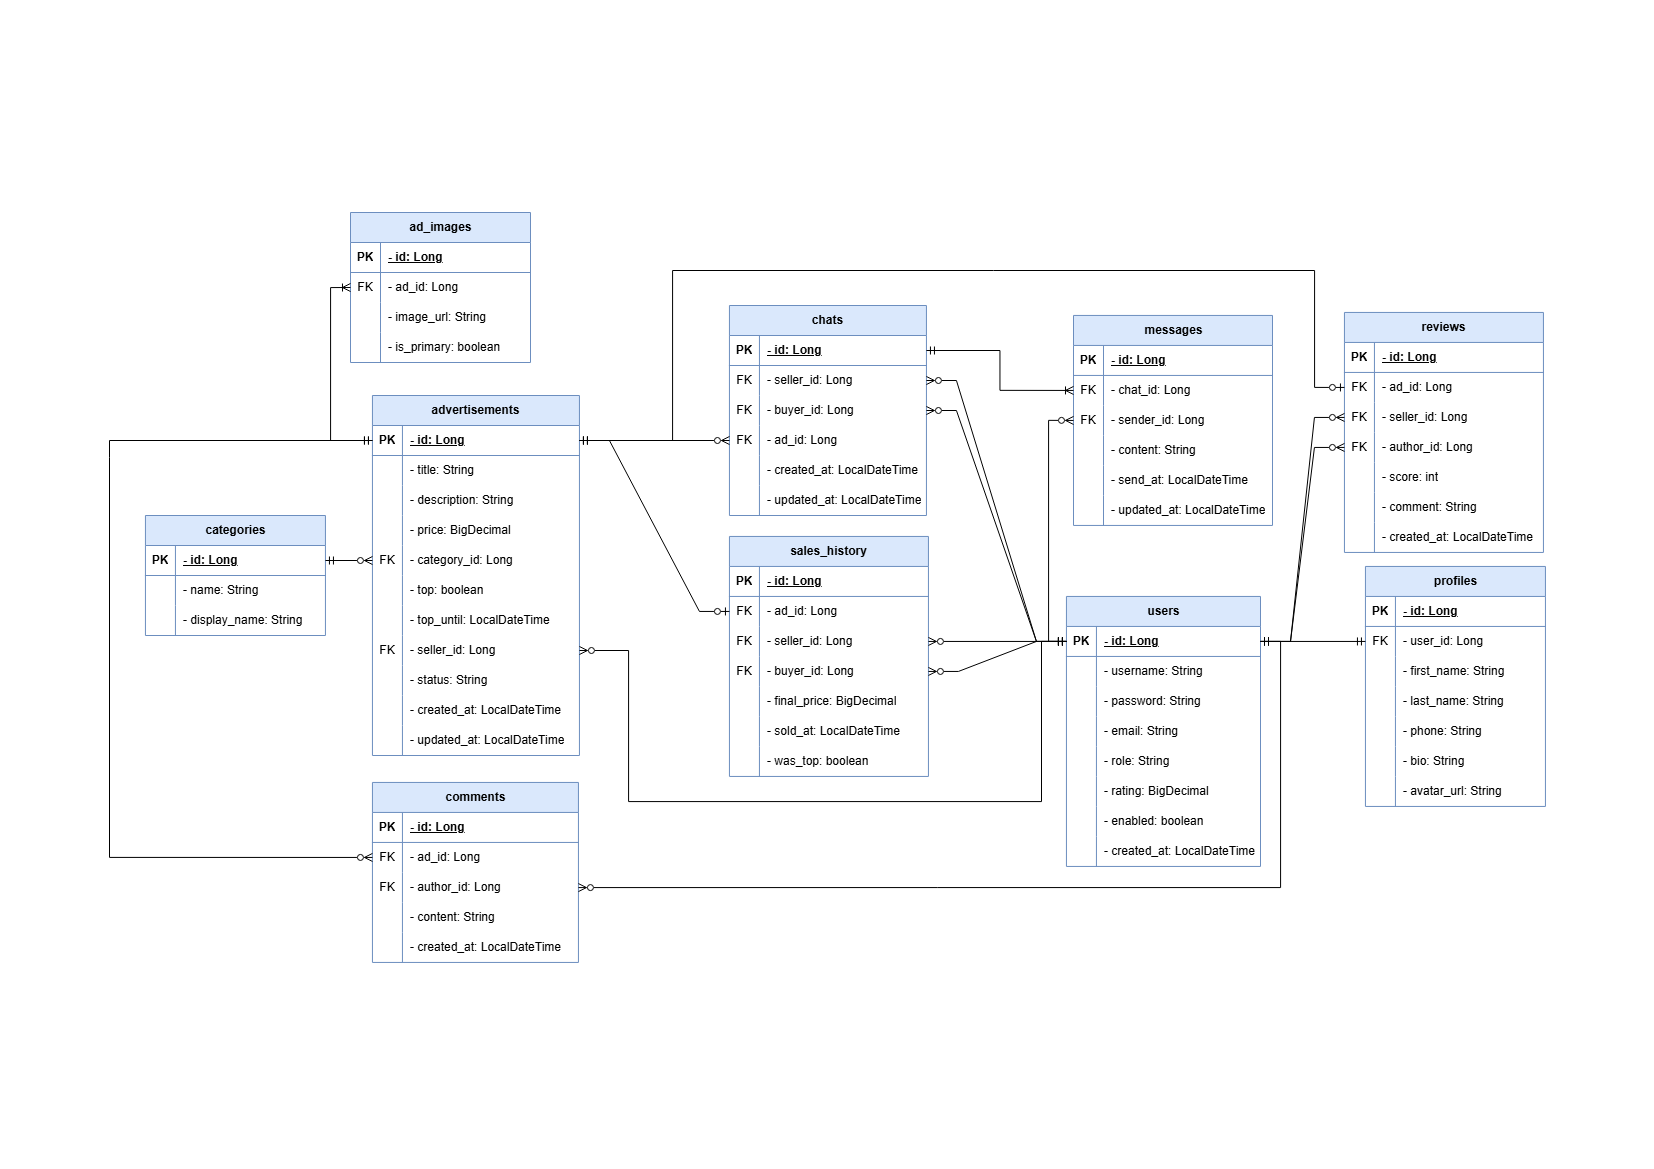
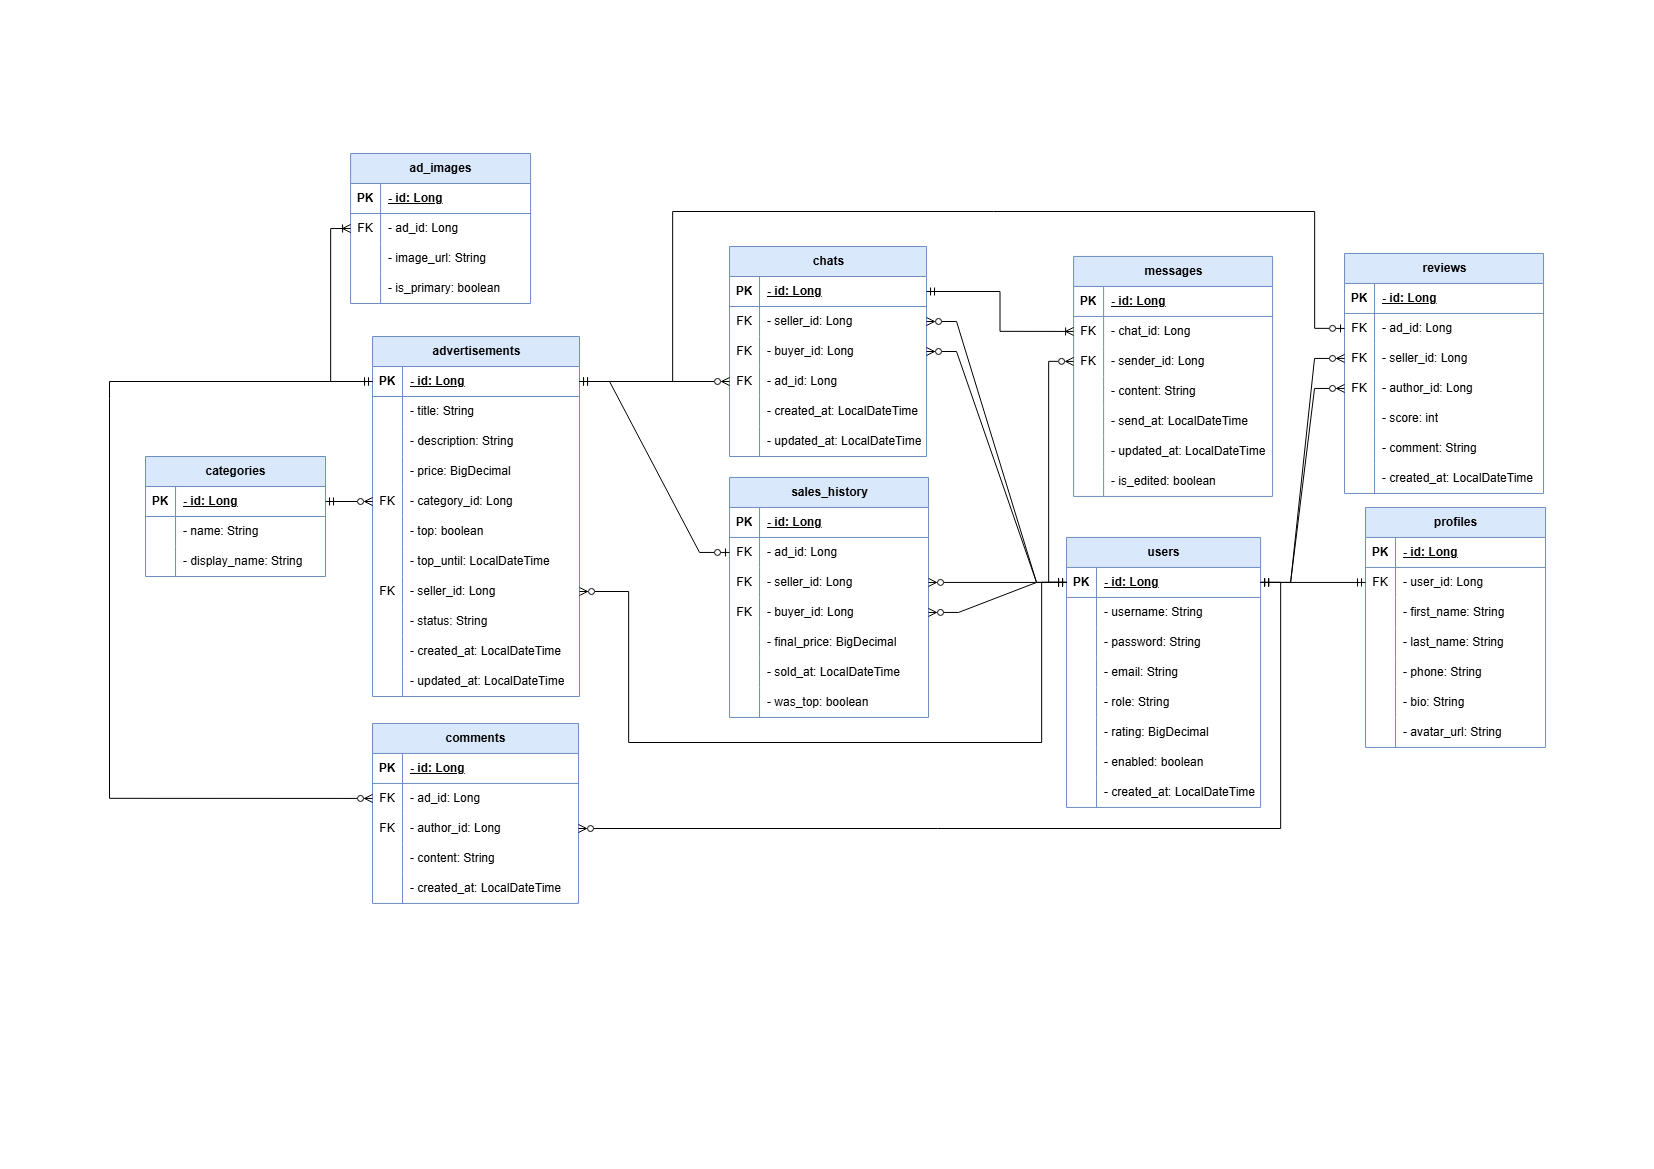
разнос паролей по файлам и исправление cicd flow

Changed region(s): [[0.5859, 0.2156, 0.9559, 0.7391], [0.0617, 0.1232, 0.37, 0.8315], [0.4317, 0.1848, 0.6167, 0.6775]]

diff --git a/src/test/java/com/project/velo/integration/profile/ProfileActivityControllerIT.java b/src/test/java/com/project/velo/integration/profile/ProfileActivityControllerIT.java
@@ -1,5 +1,6 @@
 package com.project.velo.integration.profile;
 
+import com.project.velo.integration.BaseIT;
 import org.junit.jupiter.api.Test;
 import org.springframework.beans.factory.annotation.Autowired;
 import org.springframework.boot.test.autoconfigure.web.servlet.AutoConfigureMockMvc;
@@ -17,7 +18,7 @@ import static org.springframework.test.web.servlet.result.MockMvcResultMatchers.
 
 @SpringBootTest(webEnvironment = SpringBootTest.WebEnvironment.RANDOM_PORT)
 @AutoConfigureMockMvc
-public class ProfileActivityControllerIT {
+public class ProfileActivityControllerIT extends BaseIT {
 
     @Autowired
     private MockMvc mockMvc;
